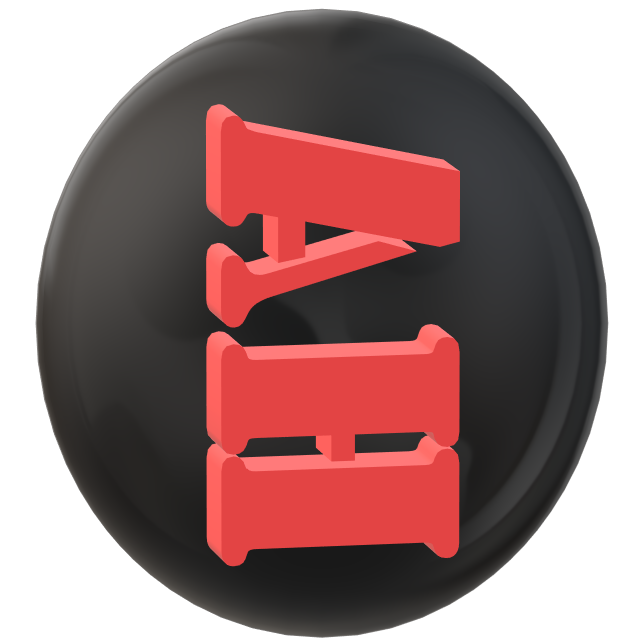
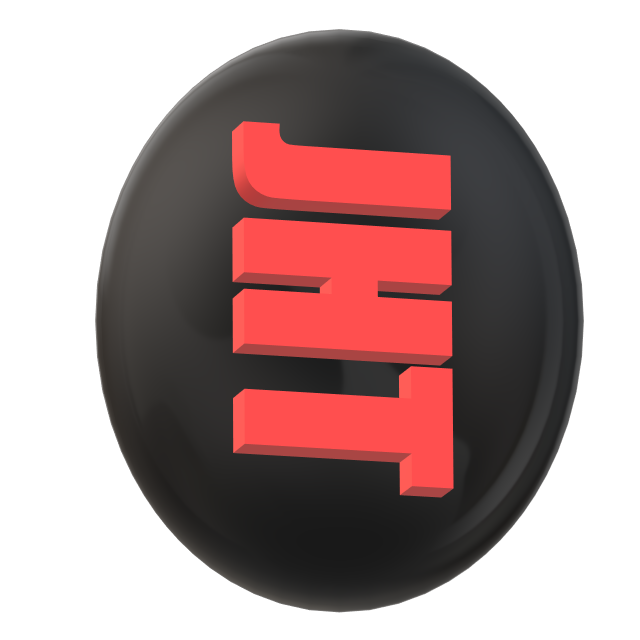
p1

diff --git a/index.html b/index.html
@@ -31,11 +31,11 @@
 
     <div id="a-b">
 
-        <a href="index.html">
-            <h1 id="indice">
-                <br> Índice <br><br>
-            </h1>
-        </a>
+
+        <h1 id="indice">
+            <br> Índice <br><br>
+        </h1>
+
 
         <a href="que-es-la-basura.html">
             <div id="que-es">
@@ -126,7 +126,7 @@
                 <br>
                 <hr noshade="">
                 <br>
-                <img src="img/que es.png" id="img-que-es">
+                <img src="img/Manejo y tratamiento de la basura_ICON.jpg" id="img-que-es">
                 <br>
                 <br>
                 <hr noshade="">
